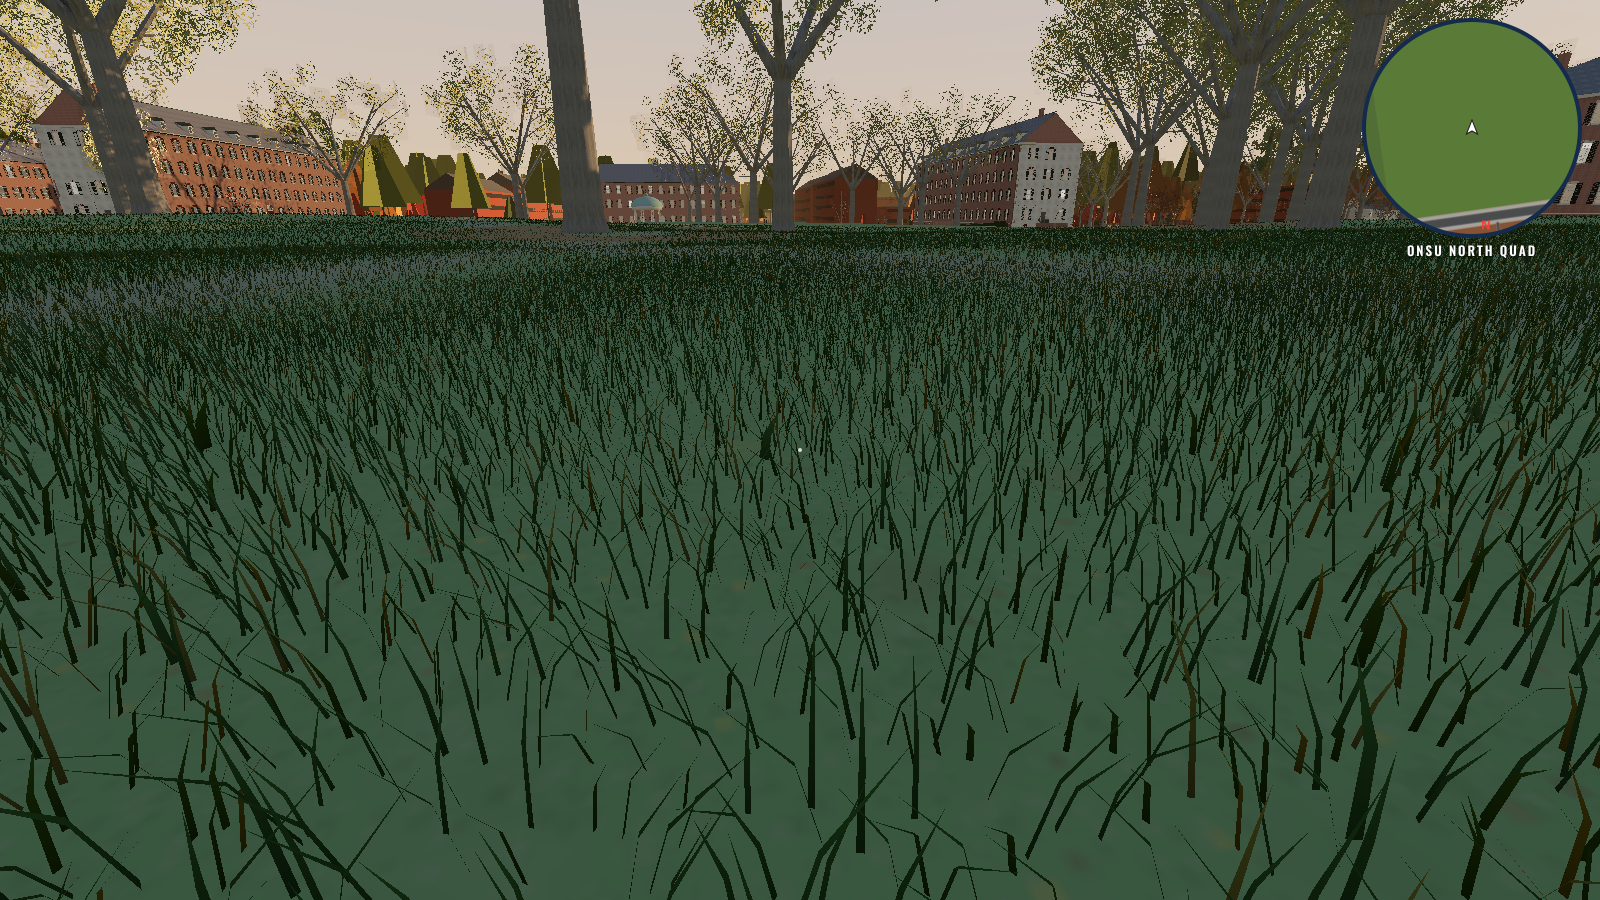
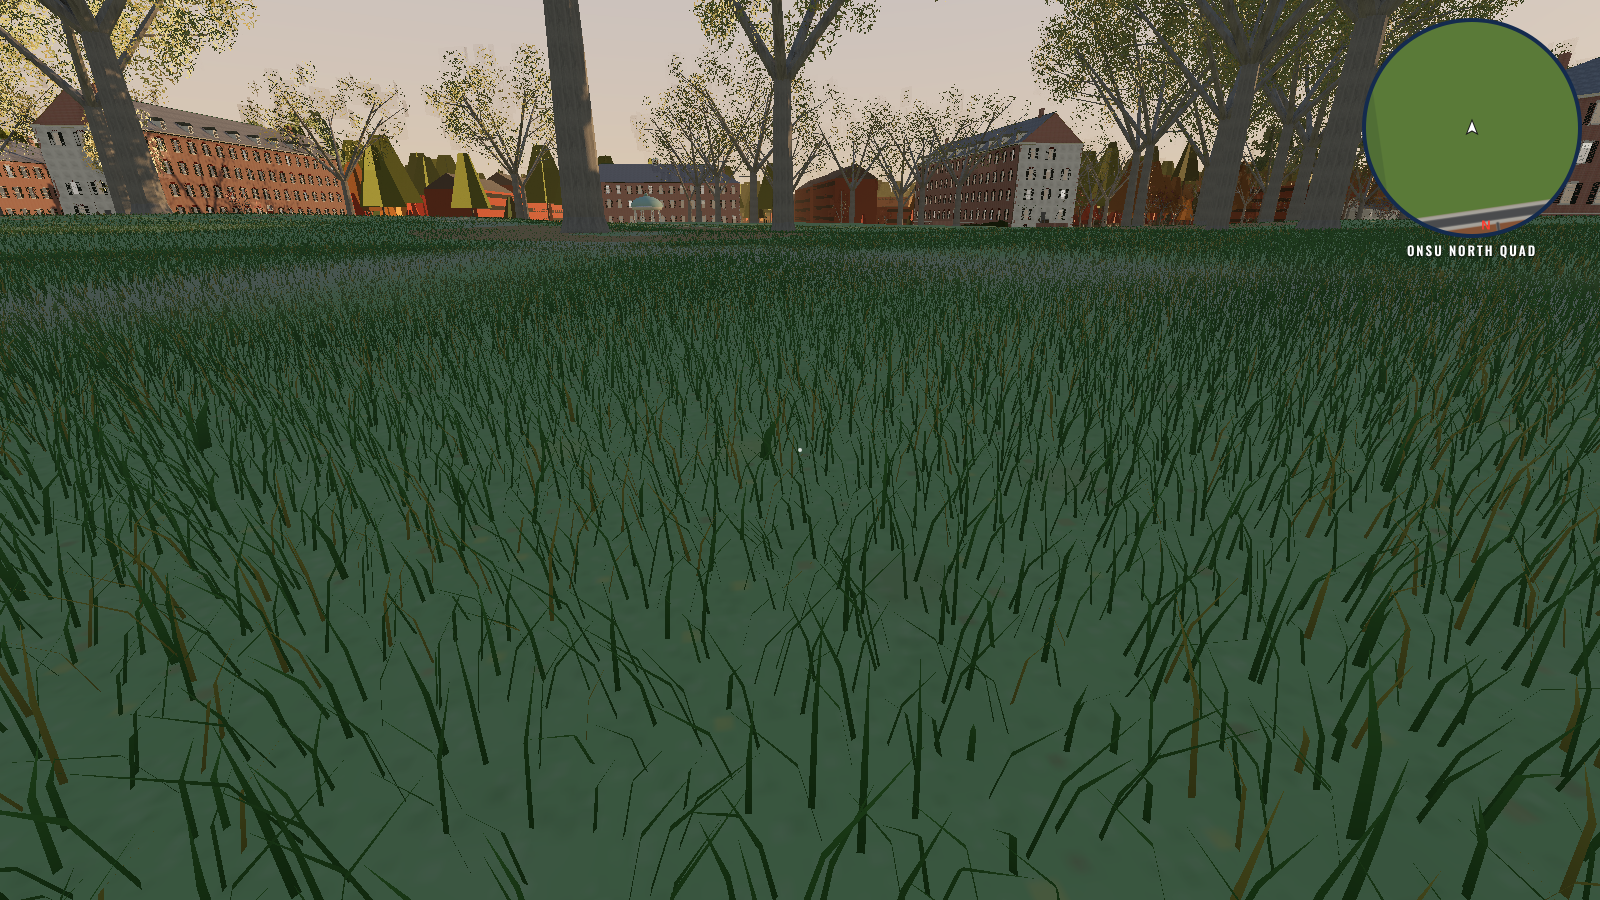
Grass blades match lawn brightness; park screenshots
Claude-Session: https://claude.ai/code/session_01DuH9i6c8yvMJQ2js6dyHin

diff --git a/src/vegetation/grass.ts b/src/vegetation/grass.ts
@@ -60,7 +60,7 @@ const VERT_BODY = /* glsl */ `
     float wind = sin(uTime * 1.6 + wp.x * 0.37 + wp.y * 0.29) * 0.5 + sin(uTime * 2.7 + wp.x * 0.9) * 0.18;
     vec2 off = fdir * (lean * t * t) + vec2(0.7, 0.45) * wind * 0.09 * hgt * t * t;
     transformed = vec3(wp.x + side.x * wid + off.x, dat.r + t * hgt * (1.0 - 0.18 * t), wp.y + side.y * wid + off.y);
-    float shade = mix(0.6, 1.05, t);
+    float shade = mix(0.85, 1.45, t); // matches the lawn texture between blades: darker roots, sunlit tips
     vGrass = vec3(worn, gh(cell, 8.0), shade);
   }
 `;
